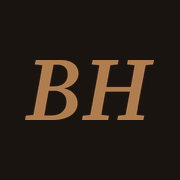
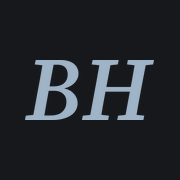
New headshot + Graphite & Steel colors (#6)
* hero: swap in the new portrait and frame it as an oval

Replace the headshot files, size the frame to 120 by 156 (96 by 125 on phones), and remove the unused BH_THUMB.png.

* hero: restore the circle and apply Graphite + Steel

Use the square headshot at 120px again and replace the warm palette with graphite and steel, including the gold logos, icons, and leftover accent colors.

* color: keep the graphite background behind the full page

Give html and body a solid --bg color and a fixed full-height gradient so the lower page no longer falls back to white.

---------

Changed region(s): [[0.4444, 0.3333, 0.8611, 0.6667], [0.1389, 0.3333, 0.4444, 0.6667]]

diff --git a/styles.css b/styles.css
@@ -12,22 +12,33 @@
 
 /* Dark mode is enforced permanently (class="dark" on <html>). */
 html.dark {
-  --bg:        #1a1410;
-  --surface:   #242018;
-  --text:      #f0ebe3;
-  --muted:     #9c9488;
-  --accent:    #b07d4e;
-  --border:    rgba(255, 255, 255, 0.08);
-  --nav-bg:    rgba(26, 20, 16, 0.92);
+  --bg:        #16181b;
+  --surface:   #1f2226;
+  --text:      #e8eaed;
+  --muted:     #9aa0a8;
+  --accent:    #9fb4c7;
+  --border:    rgba(255,255,255,0.08);
+  --nav-bg:    rgba(22,24,27,0.92);
 }
 
 * { box-sizing: border-box; margin: 0; padding: 0; }
 
-html { scroll-behavior: smooth; }
+html {
+  scroll-behavior: smooth;
+  background-color: var(--bg);
+  background-image: linear-gradient(180deg,#1c1f23 0%,#16181b 50%,#131518 100%);
+  background-attachment: fixed;
+  background-repeat: no-repeat;
+  min-height: 100%;
+}
 
 body {
   font-family: var(--sans);
-  background: var(--bg);
+  background-color: var(--bg);
+  background-image: linear-gradient(180deg,#1c1f23 0%,#16181b 50%,#131518 100%);
+  background-attachment: fixed;
+  background-repeat: no-repeat;
+  min-height: 100%;
   color: var(--text);
   line-height: 1.6;
   font-weight: 400;
@@ -44,7 +55,7 @@ a { color: inherit; }
   left: -9999px;
   top: 0;
   background: var(--accent);
-  color: #fff;
+  color: #16181b;
   padding: 10px 16px;
   border-radius: 0 0 8px 0;
   z-index: 100;
@@ -89,7 +100,7 @@ a { color: inherit; }
 .switcher-btn:hover { border-color: var(--accent); }
 .switcher-btn.active {
   background: var(--accent);
-  color: #fff;
+  color: #16181b;
   border-color: var(--accent);
 }
 
@@ -203,7 +214,7 @@ section[id] { scroll-margin-top: 80px; }
 }
 .pill-filled {
   background: var(--accent);
-  color: #fff;
+  color: #16181b;
   border: 0.5px solid var(--accent);
 }
 .pill-filled:hover { opacity: 0.9; }
@@ -230,7 +241,7 @@ section[id] { scroll-margin-top: 80px; }
   border-radius: 50%;
   object-fit: cover;
   object-position: center top;
-  border: 2px solid var(--accent, #b07d4e);
+  border: 2px solid var(--accent);
   flex-shrink: 0;
 }
 
@@ -460,7 +471,7 @@ textarea { min-height: 130px; resize: vertical; }
   margin-top: 6px;
   width: 100%;
   background: var(--accent);
-  color: #fff;
+  color: #16181b;
   border: none;
   border-radius: 10px;
   padding: 13px;
@@ -475,7 +486,7 @@ textarea { min-height: 130px; resize: vertical; }
 
 #form-error {
   display: none;
-  color: #c0392b;
+  color: #e06c5c;
   font-size: 13px;
   margin-top: 10px;
 }

diff --git a/404.html b/404.html
@@ -48,7 +48,7 @@
       <h1 style="font-family:var(--serif);font-size:clamp(6rem,20vw,12rem);font-weight:700;color:var(--accent);line-height:1;margin-bottom:0;">404</h1>
       <h2 style="font-family:var(--serif);font-size:clamp(1.5rem,3vw,2rem);font-weight:600;margin-bottom:16px;">Page not found</h2>
       <p style="color:var(--text-muted);max-width:420px;margin:0 auto 40px;line-height:1.75;">Looks like this page doesn&rsquo;t exist. Let&rsquo;s get you back on track.</p>
-      <a href="/" style="display:inline-flex;align-items:center;gap:8px;padding:14px 32px;background:var(--accent);color:#fff;border-radius:50px;font-weight:600;font-size:.9rem;transition:transform .2s,box-shadow .2s;" onmouseover="this.style.transform='translateY(-2px)';this.style.boxShadow='0 6px 22px rgba(176,125,78,.38)'" onmouseout="this.style.transform='';this.style.boxShadow=''">Back to Home</a>
+      <a href="/" style="display:inline-flex;align-items:center;gap:8px;padding:14px 32px;background:var(--accent);color:#16181b;border-radius:50px;font-weight:600;font-size:.9rem;transition:transform .2s,box-shadow .2s;" onmouseover="this.style.transform='translateY(-2px)';this.style.boxShadow='0 6px 22px rgba(159,180,199,.38)'" onmouseout="this.style.transform='';this.style.boxShadow=''">Back to Home</a>
     </div>
   </main>
 

diff --git a/analytics.js b/analytics.js
@@ -299,7 +299,7 @@
   const SITE_ID    = window.SITE_ID    || 'bryan';
   const SITE_NAME  = window.SITE_NAME  || 'Bryan Habibi';
   const SITE_EMOJI = window.SITE_EMOJI || '👔';
-  const SITE_COLOR = window.SITE_COLOR || 0xb07d4e;
+  const SITE_COLOR = window.SITE_COLOR || 0x9fb4c7;
   const CHAN       = SITE_ID === 'ht' ? 'ht' : 'bryan';
 
   // ── 1. PAGE VISIT ────────────────────────────────

diff --git a/index.html b/index.html
@@ -50,7 +50,7 @@
     window.SITE_ID    = 'bryan';
     window.SITE_NAME  = 'Bryan Habibi';
     window.SITE_EMOJI = '👔';
-    window.SITE_COLOR = 0xb07d4e;
+    window.SITE_COLOR = 0x9fb4c7;
   </script>
   <script defer src="analytics.js"></script>
 </head>
